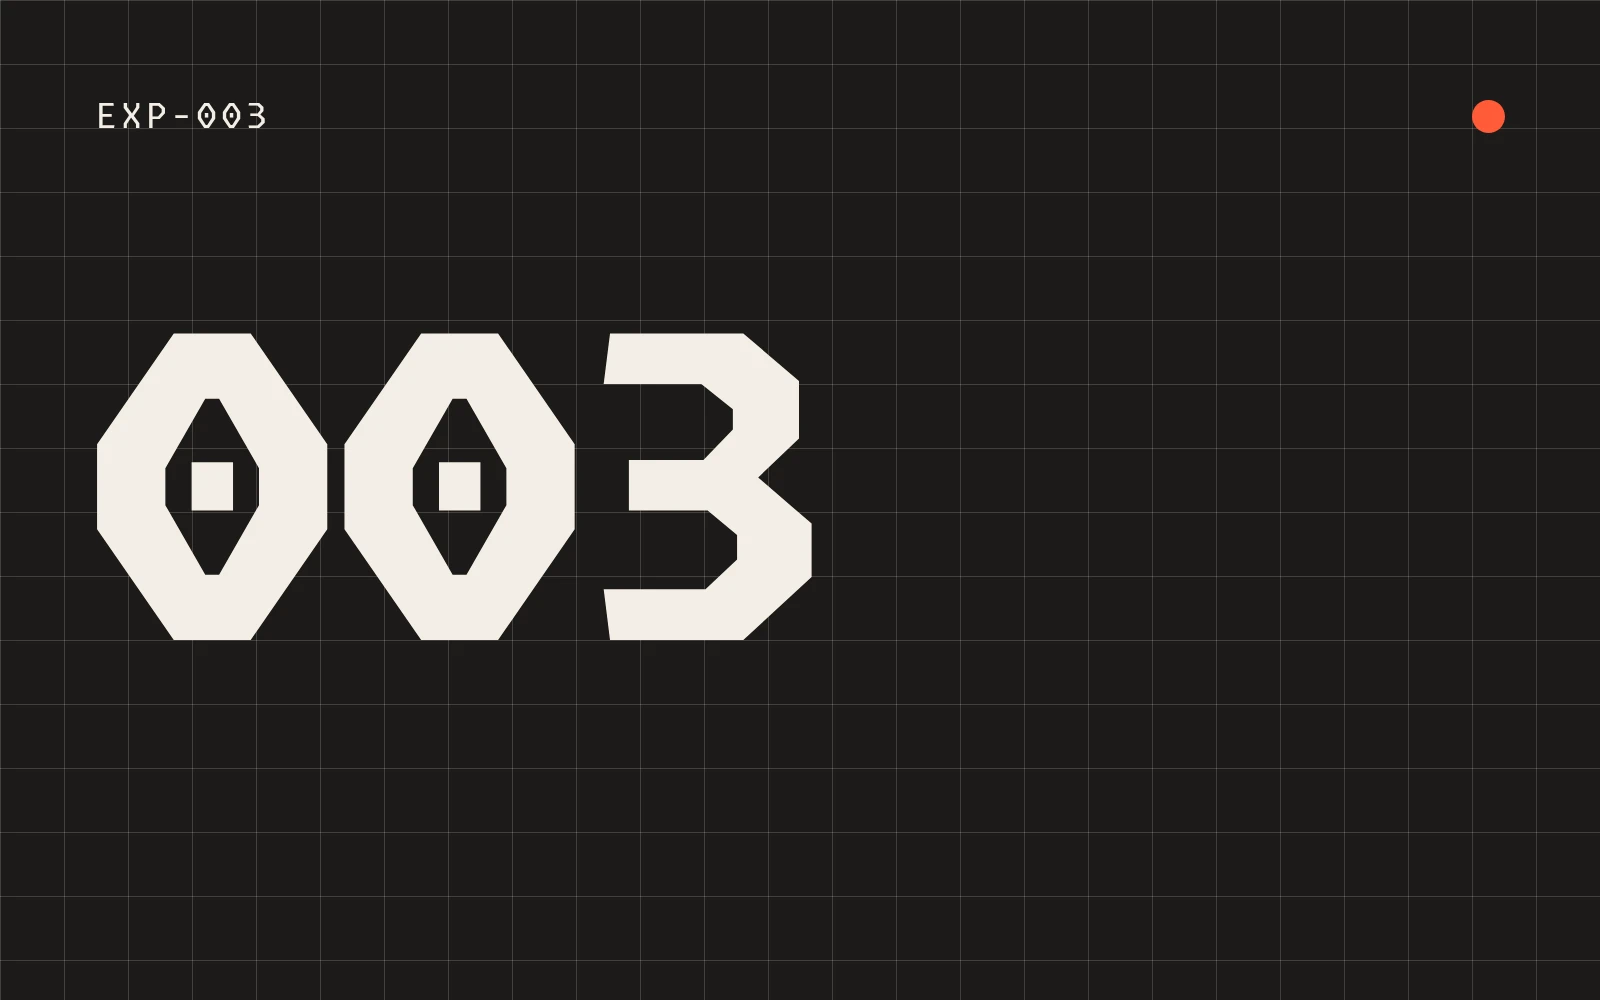
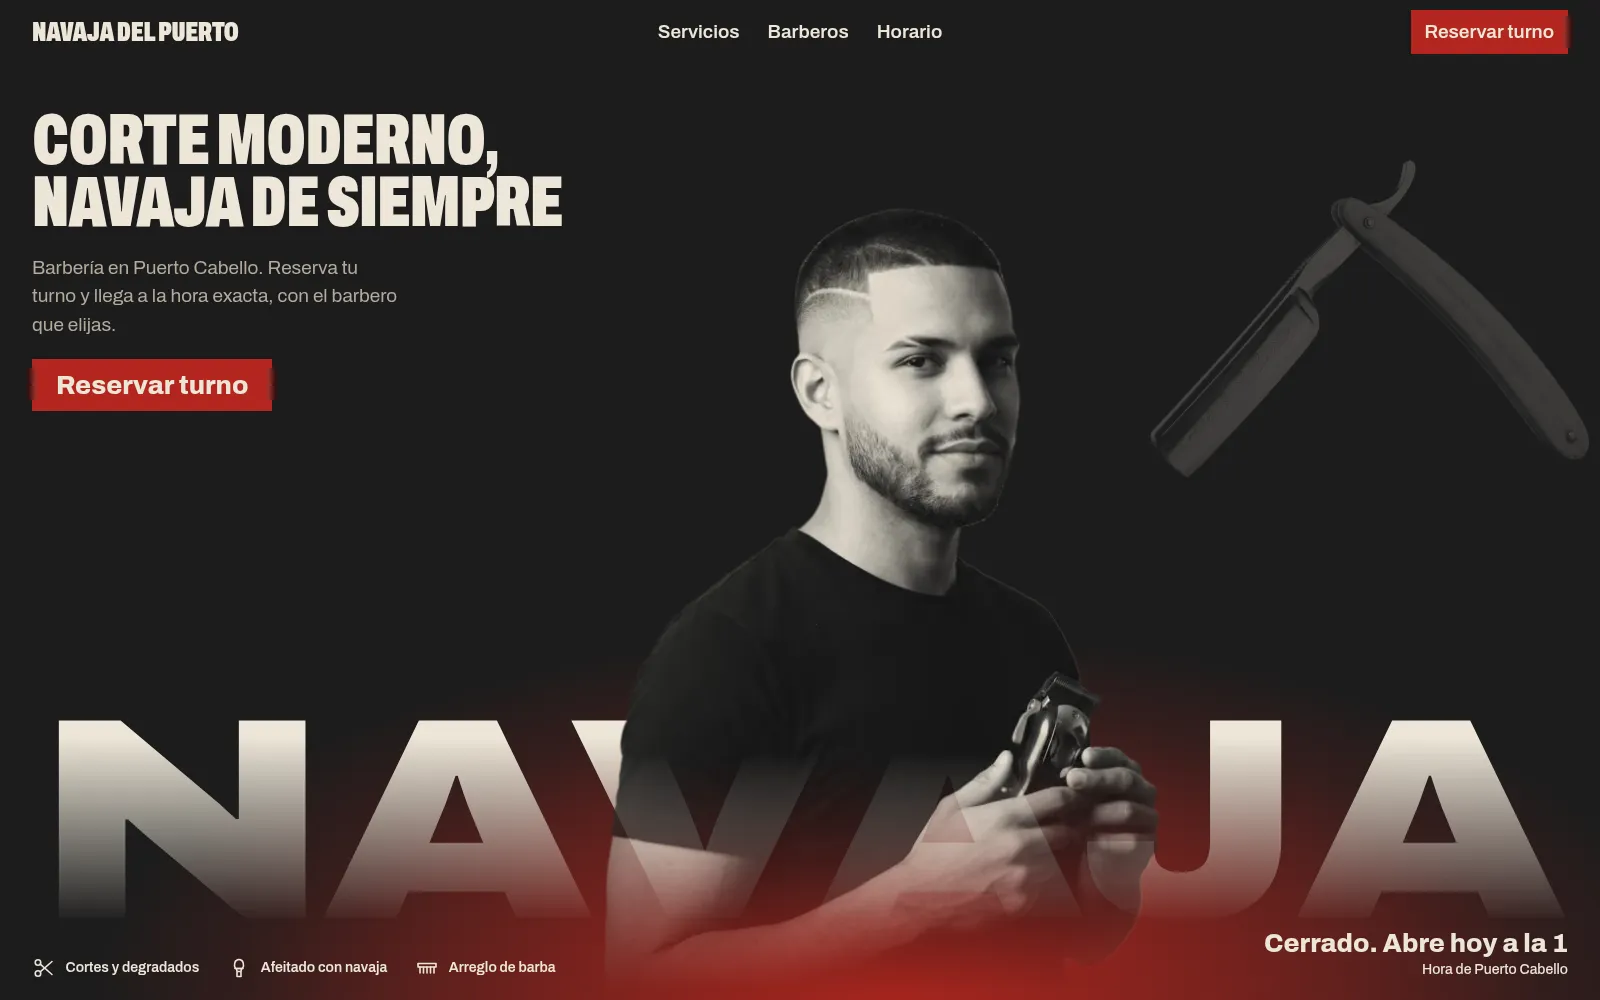
feat: caso de estudio de Navaja del Puerto publicado (T29, T30, 003)
Capturas nuevas del rediseño tomadas en https://navaja-del-puerto.ankordev.workers.dev,
texto al día con el hero, Servicios y la ficha roja, enlaces al sitio y al repositorio, ES y EN.

diff --git a/tests/e2e/projects.spec.ts b/tests/e2e/projects.spec.ts
@@ -3,7 +3,7 @@ import { test, expect } from '@playwright/test';
 test('el inicio lista los proyectos publicables en orden, sin el borrador', async ({ page }) => {
   await page.goto('/');
   const titles = page.locator('#proyectos .project-title');
-  await expect(titles).toHaveText(['Molienda: café de especialidad', 'Don Pascal: tienda online', 'App de reservas para barbería']);
+  await expect(titles).toHaveText(['Molienda: café de especialidad', 'Don Pascal: tienda online', 'Navaja del Puerto: reservas de barbería']);
   await expect(page.locator('#proyectos')).not.toContainText('iglesia');
 });
 
@@ -41,12 +41,20 @@ test('el caso 001 (Molienda) está publicado con capturas y enlaces reales (T30)
   await expect(page.locator('main a[href="https://github.com/RomPirsZ/molienda-cafe"]')).toBeVisible();
 });
 
+test('el caso 003 (Navaja del Puerto) está publicado con capturas y enlaces reales (T30)', async ({ page }) => {
+  await page.goto('/proyectos/003-reservas/');
+  await expect(page.locator('h1')).toHaveText('Navaja del Puerto: reservas de barbería');
+  await expect(page.locator('main img').first()).toHaveAttribute('alt', /^Inicio de Navaja del Puerto/);
+  await expect(page.locator('main a[href="https://navaja-del-puerto.ankordev.workers.dev"]')).toBeVisible();
+  await expect(page.locator('main a[href="https://github.com/RomPirsZ/navaja-del-puerto"]')).toBeVisible();
+});
+
 test('el caso de estudio enlaza con su versión en el otro idioma', async ({ page }) => {
   await page.goto('/proyectos/003-reservas/');
   await page.locator('a[hreflang="en"]').click();
   await expect(page).toHaveURL(/\/en\/projects\/003-reservas\/$/);
   await expect(page.locator('html')).toHaveAttribute('lang', 'en');
-  await expect(page.locator('h1')).toHaveText('Barbershop booking app');
+  await expect(page.locator('h1')).toHaveText('Navaja del Puerto: barbershop booking');
 });
 
 test('un proyecto en borrador no tiene página', async ({ page }) => {

diff --git a/tests/e2e/transitions.spec.ts b/tests/e2e/transitions.spec.ts
@@ -26,7 +26,7 @@ test('tras navegar, las animaciones se reinician en la página nueva', async ({ 
   await expect(page.locator('html')).toHaveClass(/\bmotion-ready\b/);
   await page.locator('.project-link').nth(2).click();
 
-  await expect(page.getByRole('heading', { level: 1, name: 'App de reservas para barbería' })).toBeVisible();
+  await expect(page.getByRole('heading', { level: 1, name: 'Navaja del Puerto: reservas de barbería' })).toBeVisible();
   await expect(page.locator('h1 [aria-hidden="true"]').first()).toBeAttached();
   await expect(page.locator('html')).toHaveClass(/\bmotion-ready\b/);
   await expect(page.locator('html')).toHaveClass(/\blenis\b/);

diff --git a/src/content/projects/es/003-reservas.md b/src/content/projects/es/003-reservas.md
@@ -1,30 +1,64 @@
 ---
-title: App de reservas para barbería
+title: 'Navaja del Puerto: reservas de barbería'
 number: '003'
 type: app
 year: 2026
-status: por-construir
+status: publicado
 origin: propio
-stack: []
+stack: [Astro, React, TypeScript, Tailwind CSS, Anime.js, Cloudflare Workers, Vitest, Playwright]
 cover: ../../../assets/projects/003-reservas/cover.webp
-coverAlt: Portada provisional del experimento 003, pendiente de capturas reales
-gallery: []
-summary: Proyecto propio de reservas en línea, versión mínima. Se construye y documenta en la Fase 5.
+coverAlt: Inicio de Navaja del Puerto sobre fondo carbón, con el titular «Corte moderno, navaja de siempre» y el botón rojo «Reservar turno», el retrato de un barbero delante de la palabra «NAVAJA» fundida en un resplandor rojo, una navaja abierta al fondo y, abajo, tres servicios y el estado del local
+gallery:
+  - src: ../../../assets/projects/003-reservas/servicios.webp
+    alt: La lista de Servicios con «Afeitado con navaja» señalado, la fila en carbón con «Reservar →» en rojo y, al lado, la foto del afeitado
+  - src: ../../../assets/projects/003-reservas/reserva.webp
+    alt: La reserva en el paso de la hora, con las horas libres a la izquierda y, a la derecha, la etiqueta del disco con Corte y barba, Leo y el martes 24 de noviembre
+  - src: ../../../assets/projects/003-reservas/comprobante.webp
+    alt: Turno confirmado con su código, el resumen, los botones para añadirlo al calendario o copiarlo y la etiqueta del disco sellada con el mismo código
+  - src: ../../../assets/projects/003-reservas/ritual.webp
+    alt: Primera pantalla del ritual del afeitado, con la palabra «TOALLA» sobre una cinta carbón y unas manos que sostienen una toalla caliente con vapor
+liveUrl: https://navaja-del-puerto.ankordev.workers.dev
+repoUrl: https://github.com/RomPirsZ/navaja-del-puerto
+summary: La app de reservas de una barbería ficticia en Puerto Cabello. Se elige servicio, barbero, día y hora, y una ficha roja se va rellenando hasta sellar el turno. Concepto propio, sin backend.
 lang: es
 ---
 
 ## Problema
 
-Pendiente: se documenta al construir el proyecto (T29).
+En muchas barberías de barrio el turno se pide por WhatsApp o esperando en el local. El cliente escribe y espera respuesta, y el barbero contesta entre corte y corte.
+
+Quería mostrar cómo sería reservar desde el teléfono en menos de un minuto: elegir el servicio y con quién, ver solo las horas que de verdad quedan libres y salir con un comprobante.
 
 ## Solución
 
-Pendiente.
+Navaja del Puerto es una barbería ficticia de Puerto Cabello, en carbón, hueso y rojo de barbería. Los precios, el horario y los barberos son de ejemplo, y el pie de la página lo dice. Tiene cuatro piezas:
+
+**El hero.** Ocupa todo el ancho en cualquier pantalla: el titular y el botón de reserva arriba, un barbero delante de la palabra «NAVAJA», que se funde en un resplandor rojo, y abajo tres servicios y si el local está abierto.
+
+**Servicios.** Una lista con la duración y el precio de cada uno. En pantallas anchas, al señalar uno su foto entra en el panel de al lado; al pulsarlo, la reserva se abre con ese servicio ya elegido.
+
+**La reserva.** Servicio, barbero o «el primero libre», día, hora y nombre. Mientras se elige, una ficha roja con forma de etiqueta de disco se va rellenando, y al confirmar gira un cuarto de vuelta y queda sellada con el código del turno. Desde el comprobante se añade al calendario, se comparte y, en «Tus turnos», se cancela.
+
+**El horario en vivo.** Con la hora de Puerto Cabello, la página dice si está abierto y hasta cuándo, o cuándo abre.
+
+Es una demostración: no hay servidor, el turno se guarda solo en ese navegador y la página lo dice. Las fotos las generé con IA y el pie lo indica.
 
 ## Decisiones técnicas
 
-Pendiente.
+**Astro con una sola isla de React.** Solo la reserva usa React, y se carga al acercarse a la vista. El resto es HTML estático: sin JavaScript se leen los servicios, los barberos y el horario, y la reserva explica por qué no funciona.
+
+**Una API simulada con la forma de una real.** Vuelve a validar todo antes de confirmar y relee lo guardado, así que detecta un turno reservado en otra pestaña. Si la hora se ocupó, ofrece las tres libres más cercanas. Conectar un backend de verdad solo cambiaría ese módulo.
+
+**Las reglas, con tests escritos antes.** La hora de Puerto Cabello sale de `Intl` con la zona por su nombre, sin librerías de fechas. Los huecos respetan el almuerzo, el cierre, los días de cada barbero y los servicios de 60 minutos, que necesitan dos huecos seguidos. La agenda simulada es determinista: el mismo día da siempre las mismas horas ocupadas.
+
+**Un flujo que se usa con teclado y lector de pantalla.** Cada elección es un botón, para que las flechas no hagan avanzar el paso por accidente. El foco va al título de cada paso nuevo, una región en vivo anuncia las horas libres y la confirmación, y los errores aparecen junto a su campo.
+
+**Movimiento donde aporta.** Anime.js hace entrar «NAVAJA» letra a letra, conservando una copia legible para lectores de pantalla. Los barridos y la etiqueta que se sella son CSS. Con movimiento reducido no se mueve nada, y la CSP solo admite el propio sitio.
 
 ## Resultado
 
-Pendiente.
+En línea en Cloudflare Workers, con un despliegue en cada cambio y la CI con tests y auditoría de dependencias.
+
+Lighthouse móvil sobre la URL publicada: 97–99 de rendimiento y 100 en accesibilidad, buenas prácticas y SEO.
+
+119 tests unitarios y 80 de extremo a extremo en móvil y escritorio, con axe en cada paso de la reserva.

diff --git a/src/content/projects/en/003-reservas.md b/src/content/projects/en/003-reservas.md
@@ -1,30 +1,64 @@
 ---
-title: Barbershop booking app
+title: 'Navaja del Puerto: barbershop booking'
 number: '003'
 type: app
 year: 2026
-status: por-construir
+status: publicado
 origin: propio
-stack: []
+stack: [Astro, React, TypeScript, Tailwind CSS, Anime.js, Cloudflare Workers, Vitest, Playwright]
 cover: ../../../assets/projects/003-reservas/cover.webp
-coverAlt: Placeholder cover for experiment 003, pending real screenshots
-gallery: []
-summary: Self-initiated online booking project, minimum version. Built and documented in Phase 5.
+coverAlt: Navaja del Puerto home page on a charcoal ground, with the headline «Corte moderno, navaja de siempre» and the red «Reservar turno» button, a barber's portrait in front of the word «NAVAJA» fading into a red glow, an open razor in the background and, at the foot, three services and whether the shop is open
+gallery:
+  - src: ../../../assets/projects/003-reservas/servicios.webp
+    alt: The Services list with «Afeitado con navaja» pointed at, the row turned charcoal with «Reservar →» in red and, beside it, the shave photo
+  - src: ../../../assets/projects/003-reservas/reserva.webp
+    alt: The booking at the time step, with the free times on the left and, on the right, the record label filled in with Corte y barba, Leo and Tuesday 24 November
+  - src: ../../../assets/projects/003-reservas/comprobante.webp
+    alt: Booking confirmed with its code, the summary, the buttons to add it to a calendar or copy it, and the record label sealed with the same code
+  - src: ../../../assets/projects/003-reservas/ritual.webp
+    alt: First screen of the shaving ritual, with the word «TOALLA» on a charcoal strip and hands holding a steaming hot towel
+liveUrl: https://navaja-del-puerto.ankordev.workers.dev
+repoUrl: https://github.com/RomPirsZ/navaja-del-puerto
+summary: The booking app of a fictional barbershop in Puerto Cabello, Venezuela. You pick the service, the barber, the day and the time, and a red ticket fills in until the booking is sealed. A self-initiated concept with no backend.
 lang: en
 ---
 
 ## Problem
 
-Pending: documented once the project is built (T29).
+At many neighbourhood barbershops you book by WhatsApp or by waiting your turn in the shop. The customer writes and waits for a reply, and the barber answers between cuts.
+
+I wanted to show what booking from a phone in under a minute could look like: pick the service and the barber, see only the times that are really free, and leave with a receipt.
 
 ## Solution
 
-Pending.
+Navaja del Puerto is a fictional barbershop in Puerto Cabello, in charcoal, bone and barber red. Prices, opening hours and barbers are samples, and the page footer says so. It has four pieces:
+
+**The hero.** It spans the full width on any screen: the headline and the booking button at the top, a barber in front of the word «NAVAJA», which fades into a red glow, and at the foot three services and whether the shop is open.
+
+**Services.** A list with each one's length and price. On wide screens, pointing at one brings its photo into the panel beside it; selecting it opens the booking with that service already chosen.
+
+**The booking.** Service, barber or «first one free», day, time and name. As you choose, a red ticket shaped like a record label fills in, and when you confirm it turns a quarter of a turn and is sealed with the booking code. From the receipt you can add it to your calendar, share it and, under «Tus turnos», cancel it.
+
+**Live opening hours.** Using Puerto Cabello's local time, the page says whether it is open and until when, or when it opens.
+
+It is a demo: there is no server, the booking is stored only in that browser, and the page says so. I generated the photos with AI, and the footer says that too.
 
 ## Technical decisions
 
-Pending.
+**Astro with a single React island.** Only the booking uses React, and it loads as it nears the screen. The rest is static HTML: without JavaScript you can still read the services, the barbers and the opening hours, and the booking explains why it doesn't run.
 
-## Outcome
+**A simulated API shaped like a real one.** It validates everything again before confirming and re-reads what is stored, so it catches a booking made in another tab. If the time was taken, it offers the three nearest free ones. Plugging in a real backend would only change that module.
 
-Pending.
+**The rules, with tests written first.** Puerto Cabello's time comes from `Intl` with the zone named by its IANA id, with no date library. The slots respect lunch, closing time, each barber's days and the 60-minute services that need two slots in a row. The simulated agenda is deterministic: the same day always shows the same taken times.
+
+**A flow that works with a keyboard and a screen reader.** Every choice is a button, so arrow keys never move the step on by accident. Focus goes to the heading of each new step, a live region announces the free times and the confirmation, and errors sit next to their field.
+
+**Motion where it helps.** Anime.js brings «NAVAJA» in letter by letter while keeping a readable copy for screen readers. The wipes and the sealed label are CSS. With reduced motion nothing moves, and the CSP only allows the site itself.
+
+## Result
+
+Live on Cloudflare Workers, deployed on every change, with CI running tests and a dependency audit.
+
+Mobile Lighthouse on the published URL: 97–99 for performance and 100 for accessibility, best practices and SEO.
+
+119 unit tests and 80 end-to-end tests on mobile and desktop, with axe at every booking step.

diff --git a/docs/specs/001-portafolio/tasks.md b/docs/specs/001-portafolio/tasks.md
@@ -80,8 +80,8 @@ Auditoría `quick` de solo código fuente sobre el diff de T26b–T26f (`02603a4
 
 - [x] T27 Proyecto 001 restaurante — *repo propio en `../restaurante/` (café ficticio «Molienda», Mérida), con su spec, plan y tareas en `docs/specs/001-sitio/`; M00–M10 hechas (revisión final de impeccable aprobada, `DESIGN.md`, Lighthouse móvil 99–100/100/100/100). 2026-11-17: rediseño oscuro y despliegue (M11–M17, spec §10 del restaurante); el caso de estudio va en T30*
 - [x] T28 Proyecto 002 tienda — *repo propio en `../tienda/` (marca ficticia «Don Pascal», Guanare, decidido 2026-11-14), con su spec, plan y tareas en `docs/specs/001-tienda/`: catálogo, carrito con pedido por WhatsApp y asistente con IA (Claude Opus 5.5) que solo responde con datos de la base de datos. Hecha 2026-11-15: en línea en https://don-pascal.ankordev.workers.dev (repo público RomPirsZ/don-pascal-tienda, Workers Builds), E00–E11 y E14–E17 hechas; Lighthouse móvil 100/96/99 y 100 en lo demás. Abiertas en la tienda: E12 (batería contra la API real, falta crédito; mientras, el chat remite a WhatsApp) y E13 (WhatsApp, aplazada por decisión del usuario). Caso de estudio en el portafolio (ES y EN, `src/content/projects/*/002-tienda.md`): publicado, con portada y 4 capturas reales de producción, stack, enlaces al sitio y al código, y lo pendiente dicho tal cual; sin conversación inventada en la captura del chat. Las listas del texto van como párrafos con entrada en negrita (el estilo del caso no da formato a listas). `projects.spec.ts` actualizado*
-- [ ] T29 Proyecto 003 reservas, versión mínima (`docs/specs/004-reservas/`)
-- [ ] T30 Casos de estudio con capturas y enlaces reales — *el de la tienda (002) ya está hecho con T28 (2026-11-15); el del restaurante (001), «Molienda», el 2026-11-17 tras su rediseño oscuro, en línea en https://molienda-cafe.ankordev.workers.dev (repo público RomPirsZ/molienda-cafe); falta 003 (con T29)*
+- [x] T29 Proyecto 003 reservas — *repo propio en `../reservas/` (barbería ficticia «Navaja del Puerto», Puerto Cabello), con su spec, plan y tareas en `docs/specs/001-reservas/`; reserva real sin backend (API simulada en el navegador). R00–R11 y R13–R19 hechas; rediseño carbón/hueso/rojo con hero a todo el ancho el 2026-11-21. En línea en https://navaja-del-puerto.ankordev.workers.dev (repo público RomPirsZ/navaja-del-puerto, Workers Builds). 119 unitarios y 80 e2e; Lighthouse móvil sobre la URL real 97–99/100/100/100 (una primera pasada en frío dio 78 de rendimiento). El caso de estudio es R12 = T30*
+- [x] T30 Casos de estudio con capturas y enlaces reales — *el de la tienda (002) ya está hecho con T28 (2026-11-15); el del restaurante (001), «Molienda», el 2026-11-17 tras su rediseño oscuro, en línea en https://molienda-cafe.ankordev.workers.dev (repo público RomPirsZ/molienda-cafe); el de la app de reservas (003), «Navaja del Puerto», el 2026-11-21 con capturas nuevas del rediseño tomadas en producción (portada, servicios, reserva, comprobante y ritual), enlaces al sitio y al repo, ES y EN. `projects.spec.ts` y `transitions.spec.ts` con el título nuevo*
 
 ## Fase 6 — Pulido (hecha 2026-11-14)
 
